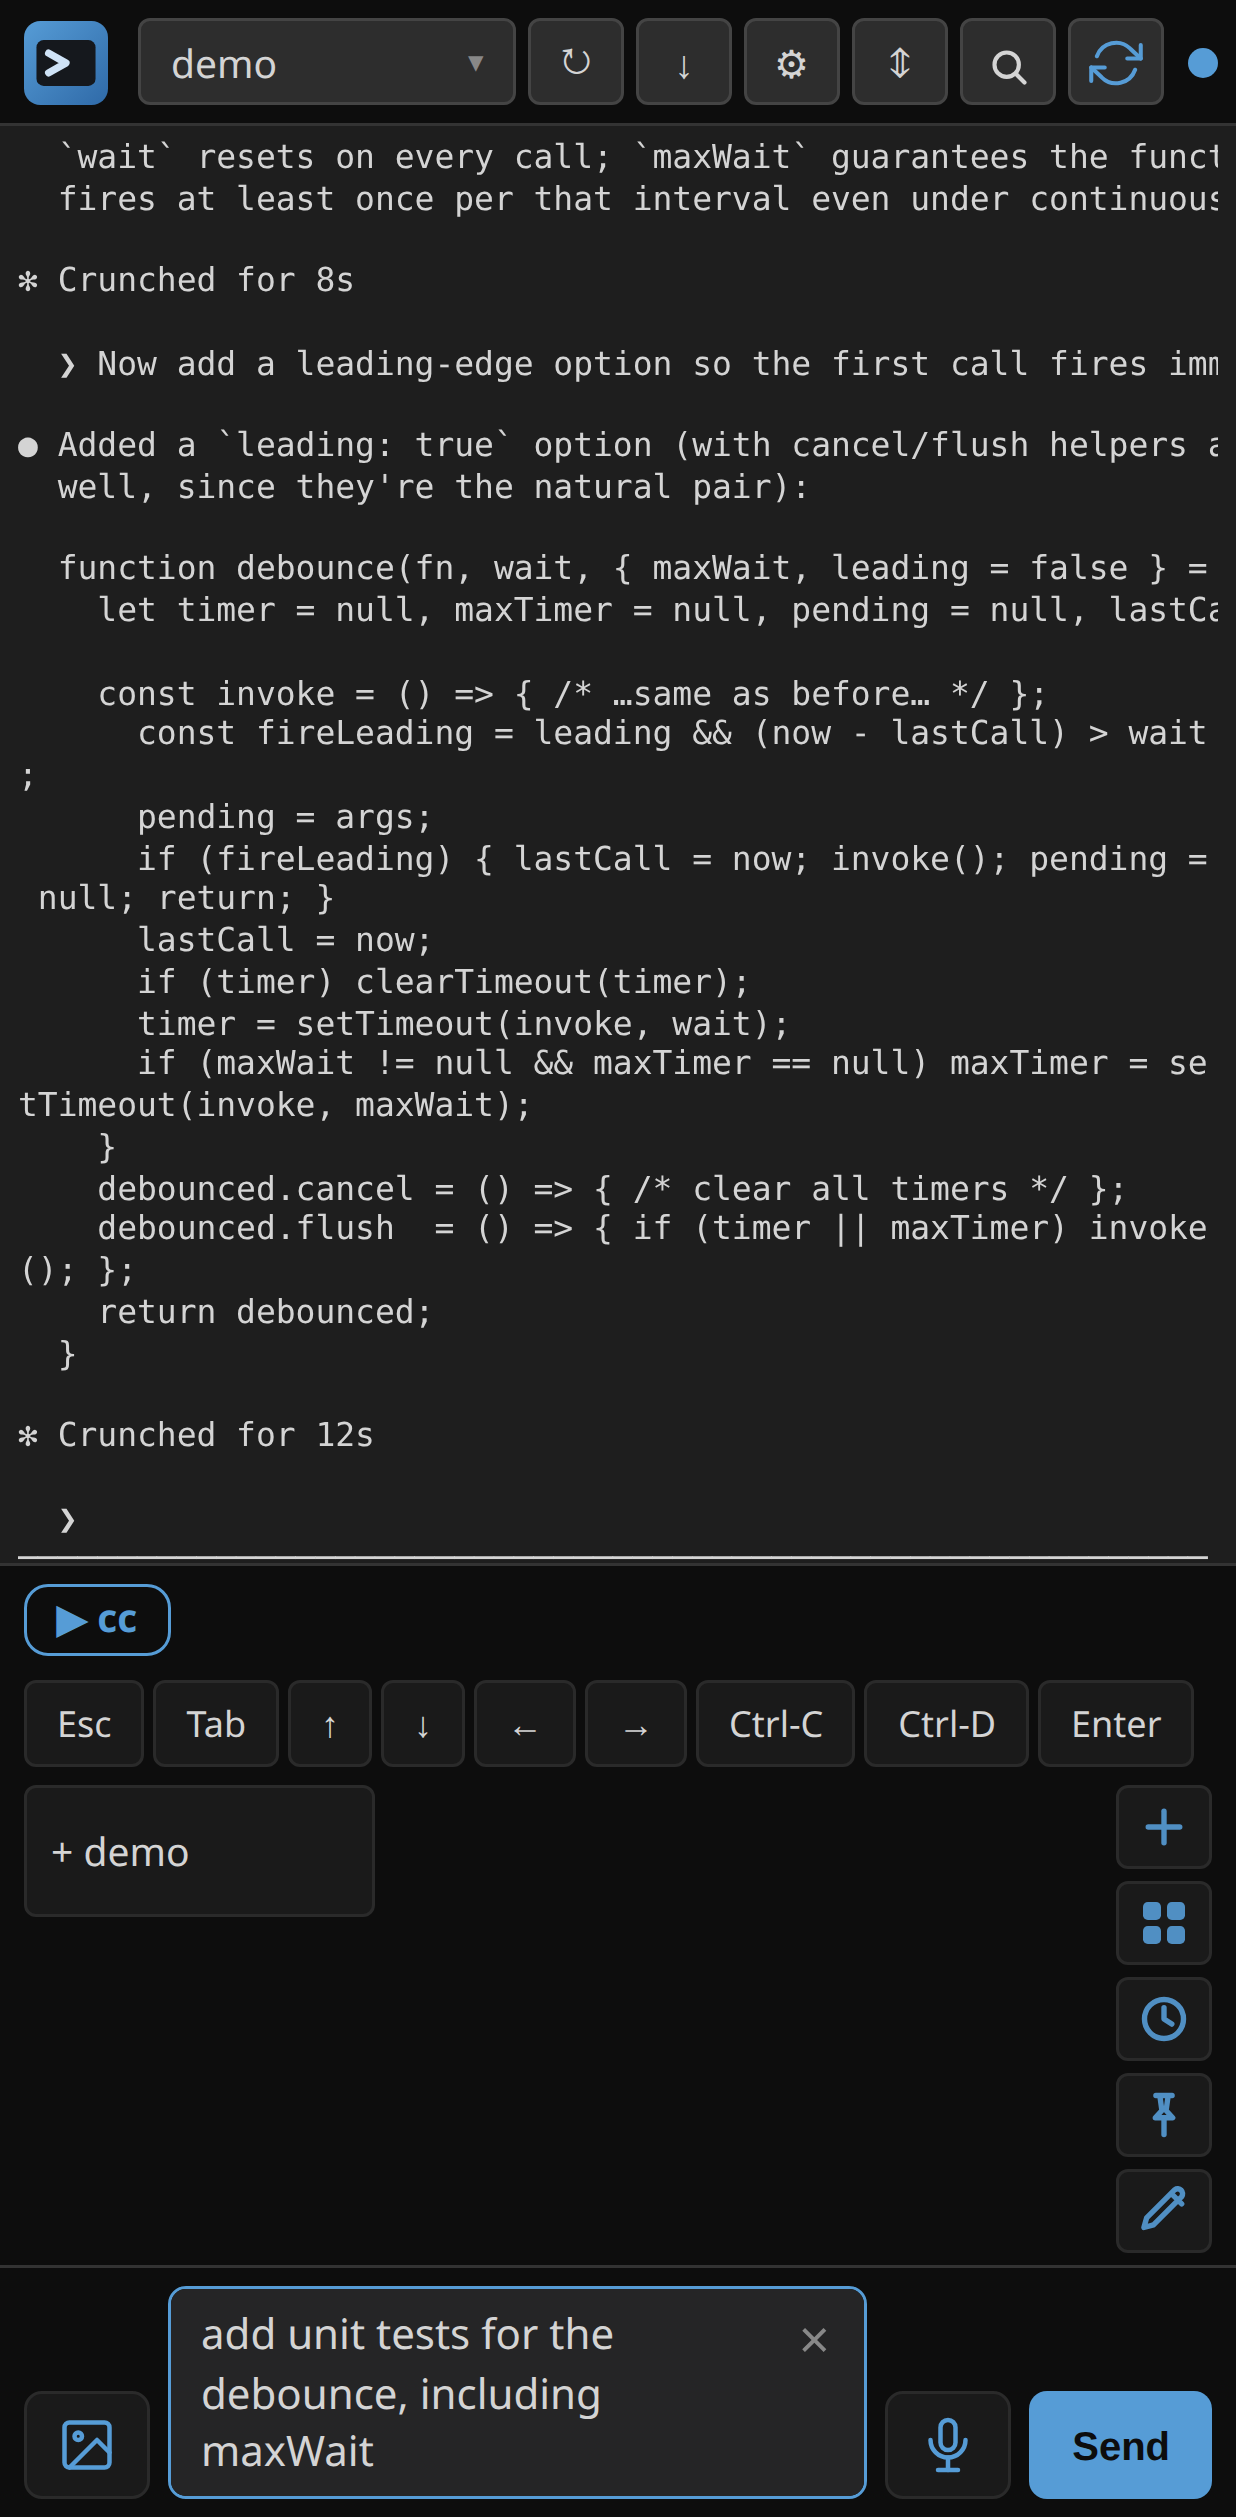
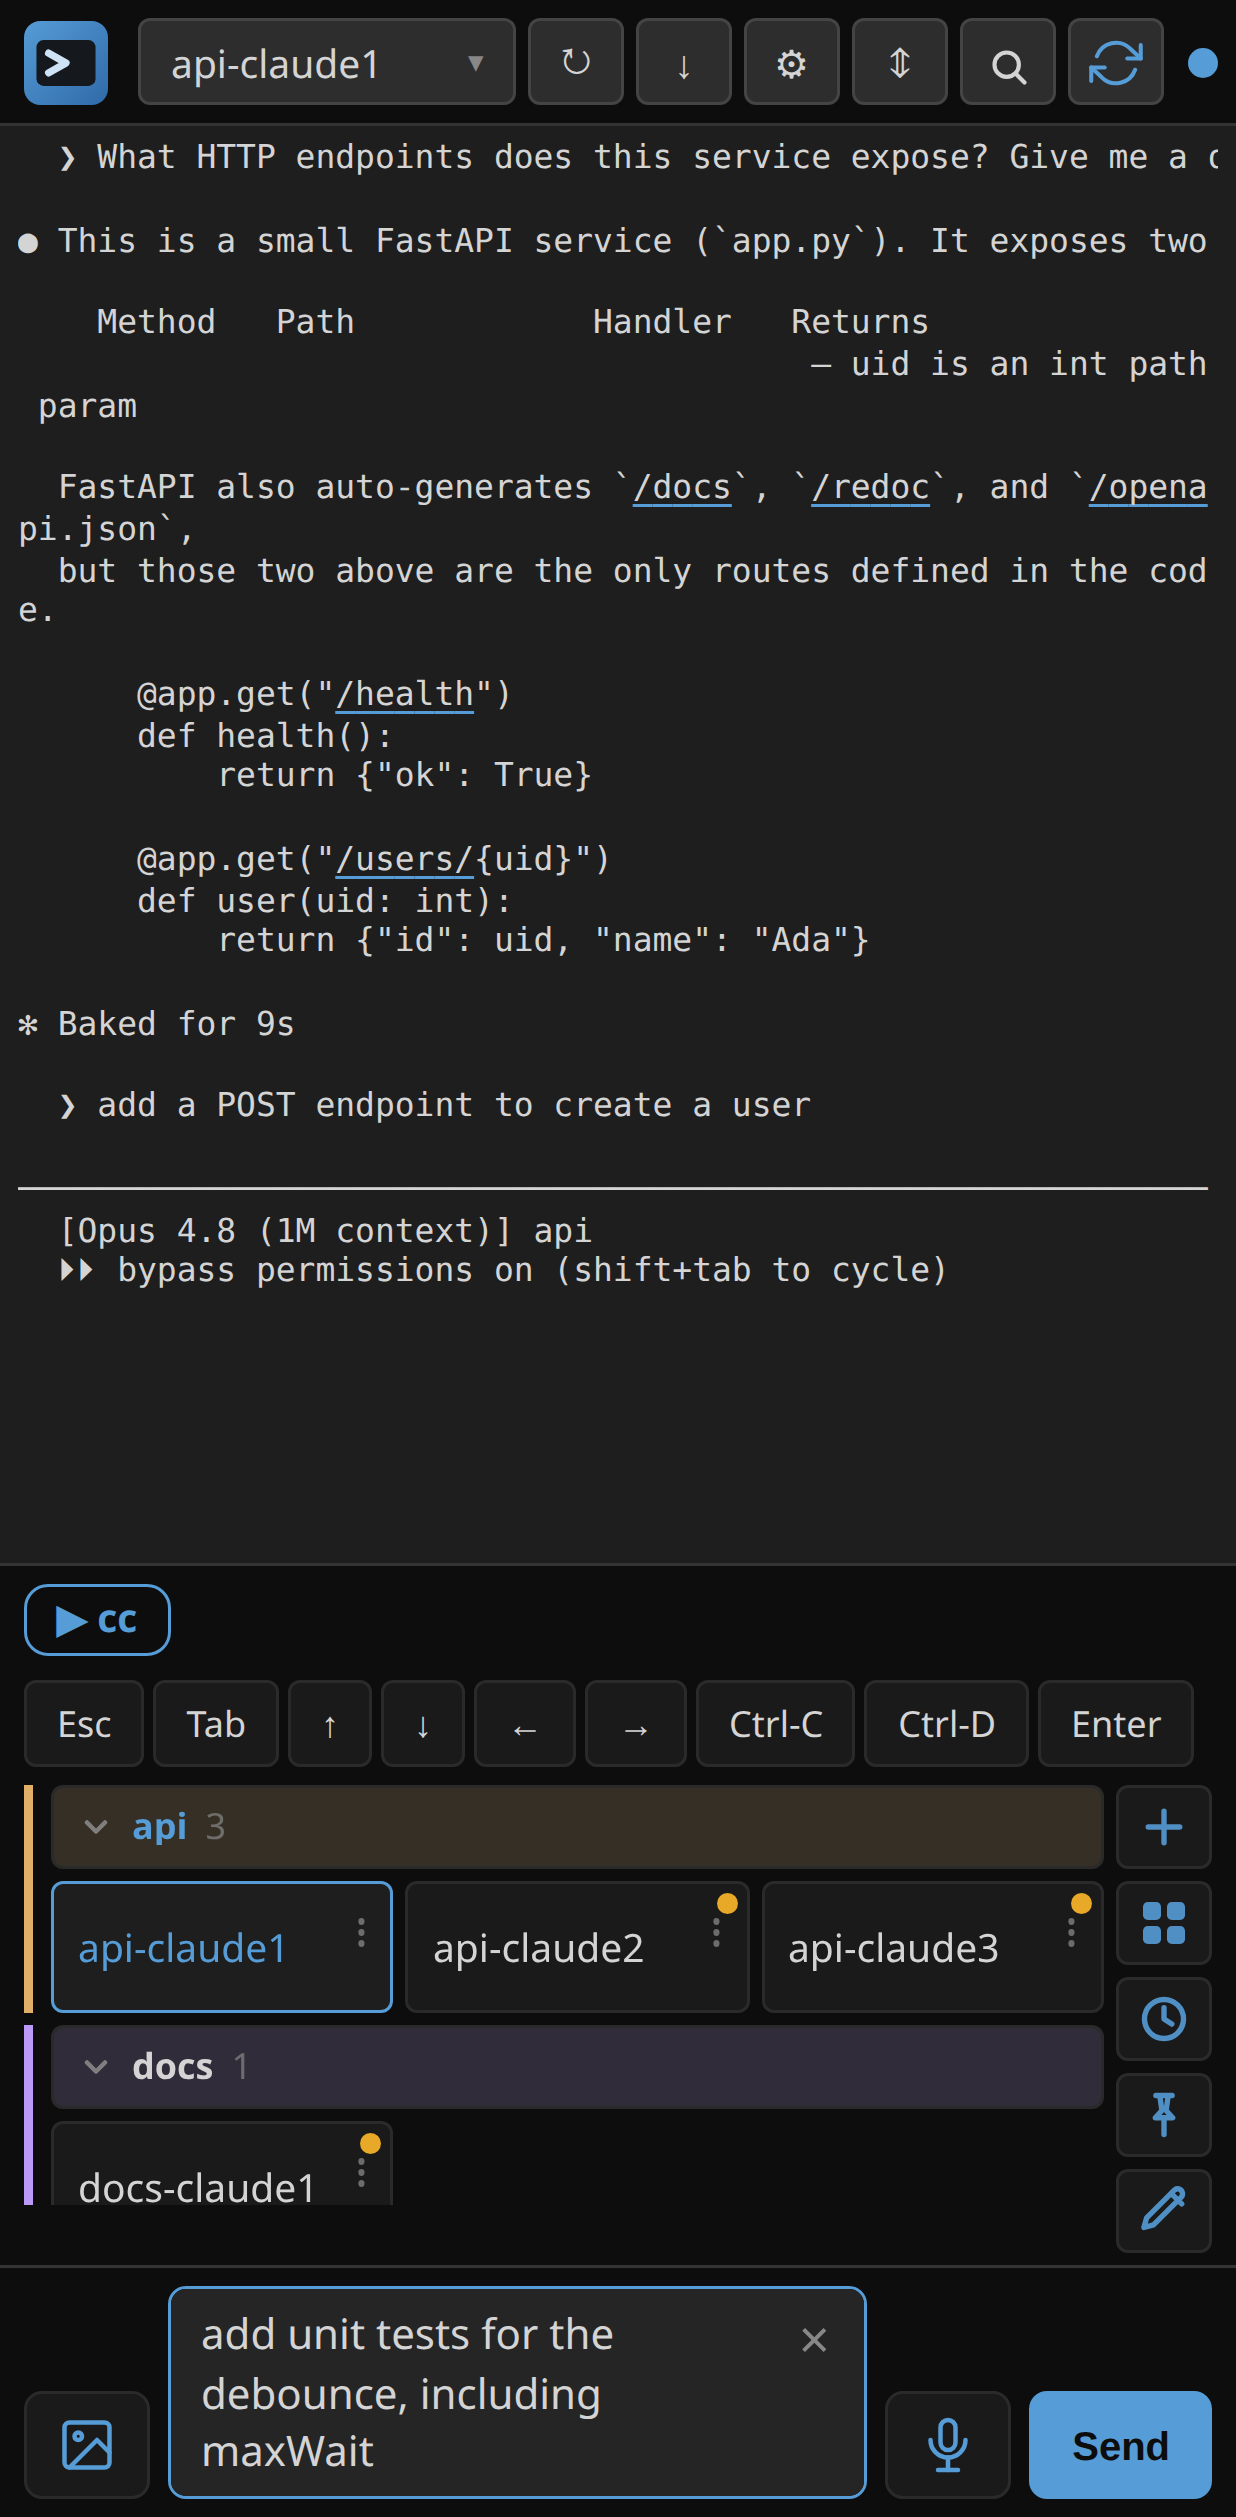
demos: profile system + multi-project 'See it' capture
Adds demo PROFILES (demos/profiles/<name>.json) describing the projects /
sessions / mock content / project-grouped pinned tabs a UI demo is captured
against, plus demos/local-capture.sh — one command that stands up an isolated
synthetic daemon, applies the profile (creates the tmux sessions, cats mock
fixtures, PUTs the tab pins via lib/profile.mjs), captures, and tears down.

use-flow now uses the 'multi-project' profile: an api project with 3 CC
sessions + a docs project, so the README 'See it' clip shows the real
multi-project tab rail (api ×3 / docs) like the hero — with a FastAPI mock
session up top. Regenerated use.mp4 (1236×2516).

diff --git a/demos/CONVENTIONS.md b/demos/CONVENTIONS.md
@@ -92,19 +92,48 @@ and looks blurry.** So:
 
 ## How to run
 
+The one-command path — stands up an **isolated synthetic daemon**, applies the
+demo's profile, captures, and tears down (no live `:7800`, no real sessions):
+
+```sh
+demos/local-capture.sh use-flow   # capture one UI demo end-to-end, isolated
+```
+
+The lower-level entrypoint (assumes a daemon is already running at
+`MOBILE_CC_URL`, capture pane `TTV_PANE`):
+
 ```sh
 demos/run.sh                 # the whole suite (regression gate)
 demos/run.sh use-flow        # one demo
 demos/run.sh --list          # what exists
 ```
 
-UI demos need a mobile-cc daemon (default `https://127.0.0.1:7800/`, override
-`MOBILE_CC_URL`) whose capture pane (`TTV_PANE`) runs **seeded, synthetic**
-content — never real secrets. Terminal demos run the real install paths in a
-temp prefix and clean up after themselves.
+Terminal demos run the real install paths in a temp prefix and clean up after
+themselves. `run.sh` publishes each passing demo's media into
+`docs/media/<media>.*` and reminds you to re-upload changed mp4s (below).
 
-`run.sh` publishes each passing demo's media into `docs/media/<media>.*` and
-then reminds you to re-upload changed mp4s (next section).
+## Profiles (the demo's seeded world)
+
+A UI demo is captured against a **profile** — `demos/profiles/<name>.json` —
+that describes the projects, tmux sessions, mock content, and the
+project-grouped pinned tabs the capture should show. A demo opts in via its
+manifest `profile` field (`local-capture.sh` reads it). This is how the README
+"See it" clip shows the real **multi-project tab rail** (an `api` project with
+three Claude Code sessions + a `docs` project) instead of one bare session.
+
+Key facts the profile system relies on:
+
+- **Tab groups** come from **pinned** sessions (daemon state key
+  `ttv-plugin:ttyview-tabs:pins` = `[{id, session}, …]`). The group label is
+  auto-derived from the session-name prefix — `api-claude1` → group `api`.
+- **`local-capture.sh`** creates the sessions on a dedicated `tmux -L` socket,
+  `cat`s each session's mock fixture (`demos/fixtures/*.txt`) into it, starts
+  the isolated daemon, then PUTs the pins (via `lib/profile.mjs`) so the rail
+  renders grouped. The profile's `active` session becomes `TTV_PANE`.
+- **Add a scenario** = add a `demos/profiles/<name>.json` (+ any new mock
+  fixtures) and point a demo's manifest `profile` at it. No code change. Use
+  this for other workflow shots (e.g. a permission-prompt scenario, a
+  single-session beginner view).
 
 ## The README embed step
 